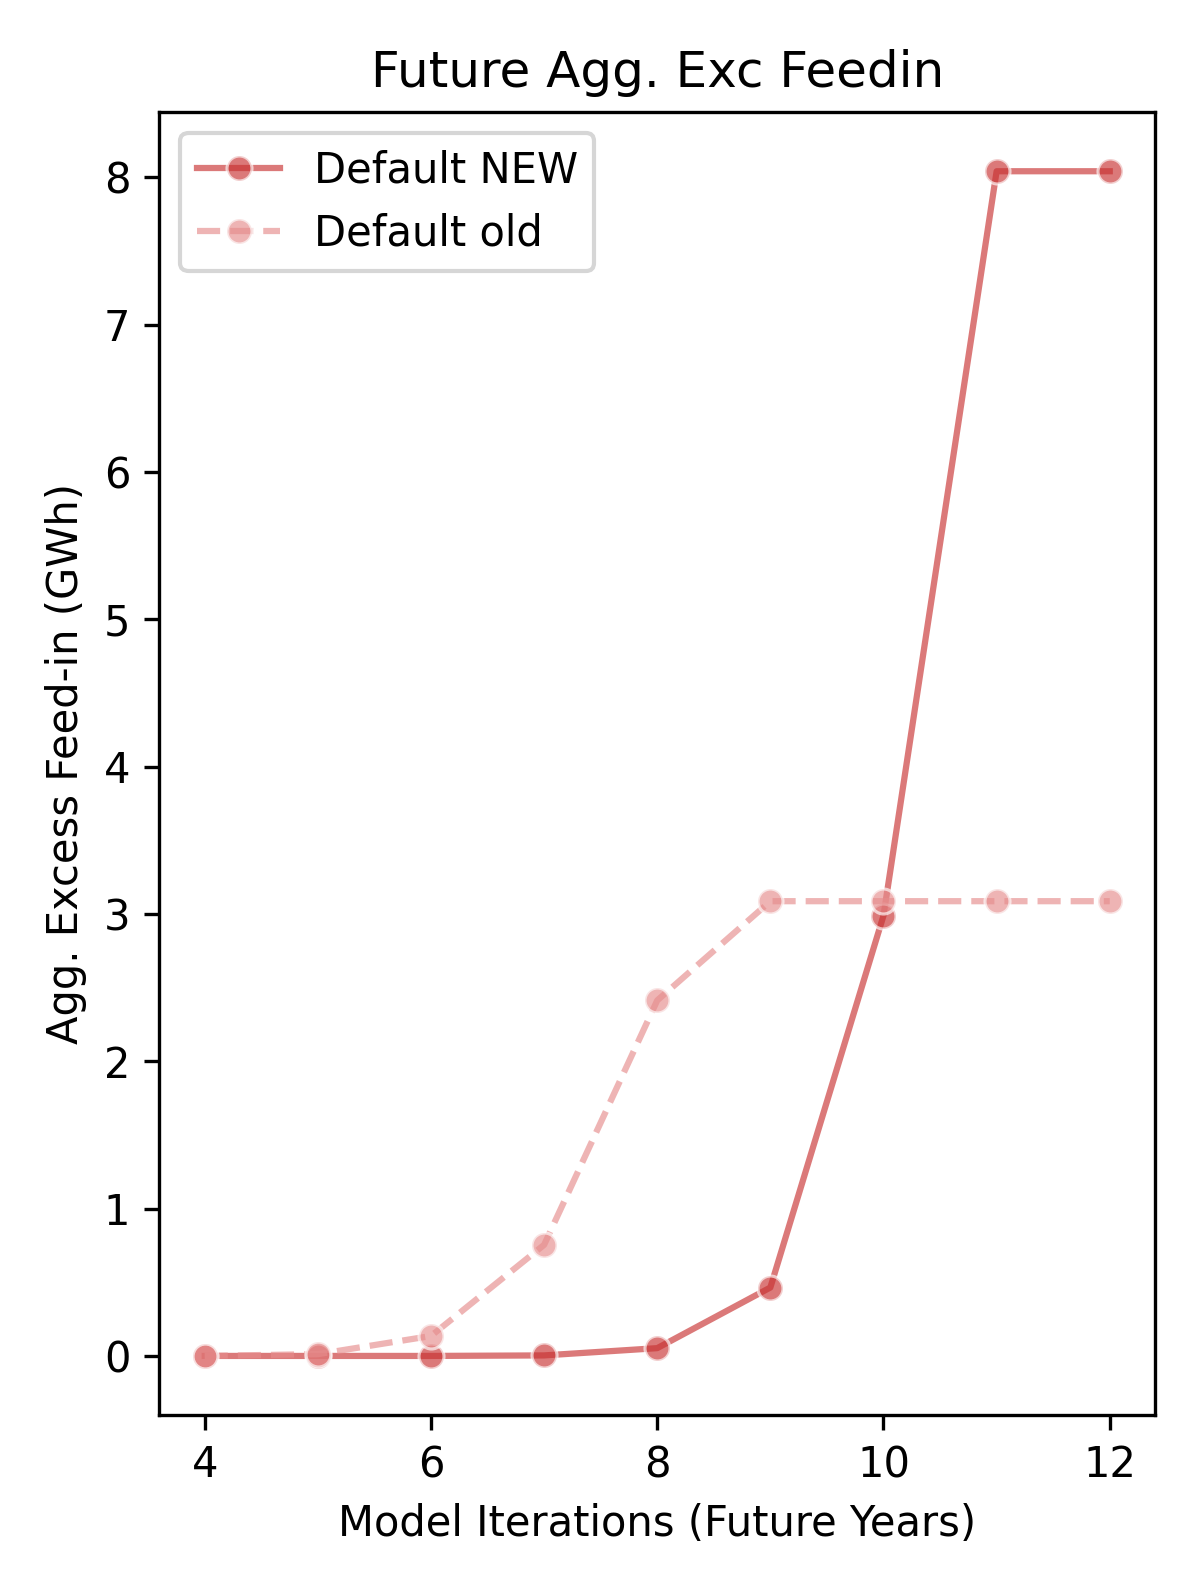
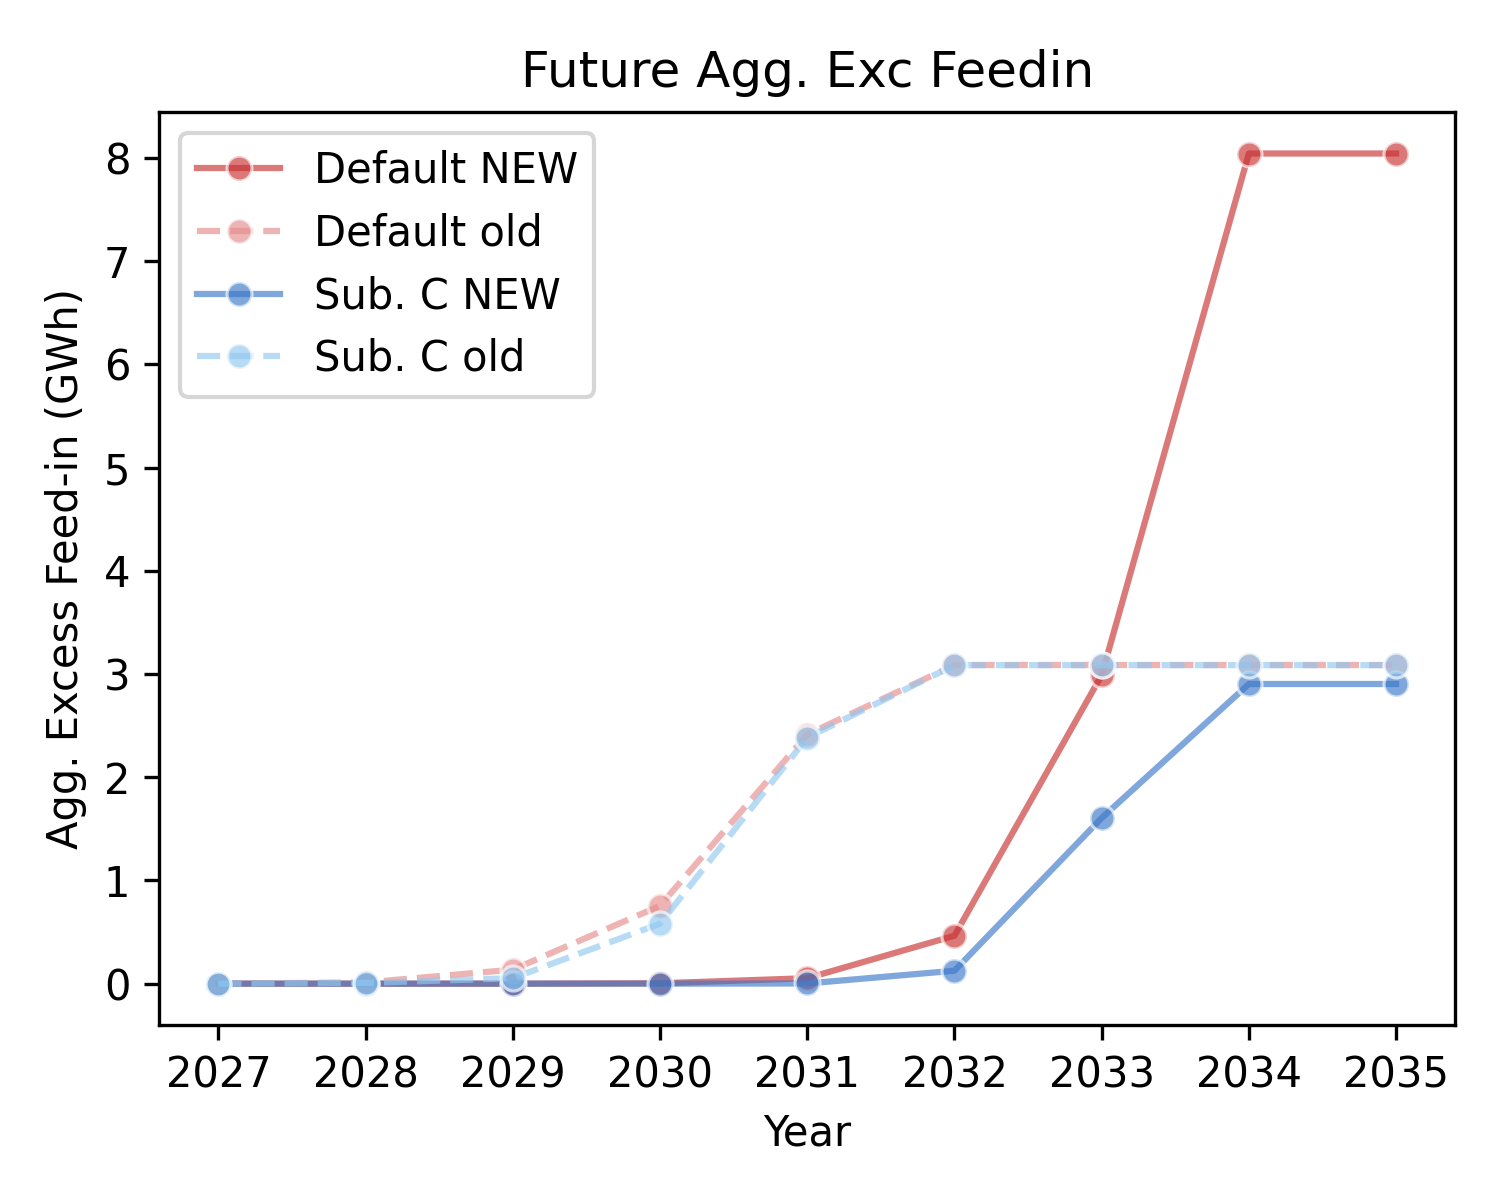
v1 dso update slide deck

diff --git a/paper_publication/Update_Primeo_June26/main.tex b/paper_publication/Update_Primeo_June26/main.tex
@@ -144,9 +144,9 @@
 % \title[Improved Residential PV Expansion]{Decisions at the Grid's Edge}
 \title{Update Primeo}
 \subtitle{Decisions at the Grid's Edge - An Improved Spatial PV Expansion in Swiss Residences}
-\author{Raul Hochuli}
-\institute{University of Basel, Faculty of Business and Economics}
-\date{June 2026}
+\author{Raul Hochuli (raul.hochuli@unibas.ch)}
+\institute{Universität Basel, Wirtschaftswissenschaftliche Fakultät}
+\date{Juni 2026}
 % \titlegraphic{\includegraphics[width=2.3cm]{UniBas_Logo.jpg}}
 
 
@@ -164,112 +164,175 @@
 \section{Adjustments to last Presentation}
 
 % -------------------------------------------------------
-\begin{frame}{Recap \& New Adjustments}
-\begin{itemize}
-    \item Expansion trajectory no longer solely based on EP2050+ but asymptotically approaches this
+\begin{frame}{Übersicht Anpassungen}
+\begin{enumerate}
+
+    \item \textbf{Unrealistische Ausbaukapazität}  \hyperlink{adjusted_res_capacity}{\beamergotobutton{ Angepasste Ausbaukazapität}}
     \begin{itemize}
-        \item \textit{done, still show plot}
+        \item Bisher: Zukünftiger PV Ausbaupfad gemäss Energieperspektive (EP) 2050+ als unrealistische Annahme. 
+        \item \textit{
+            Neu: Startwert basiert auf historischem Wert (2023), anschliessend asymptotische Annäherung an die Zielkapazität EP2050+ bis 2050. 
+            }
     \end{itemize}
-    
-    \item Post-Analyse: Batteriespeicher in den "schlimmsten" Kontenpunkten
+    %
+    \textbf{\item Batteriespeicher gegen Überproduktion} \hyperlink{worstnodesworstweek}{\beamergotobutton{ Überproduktion: Schlimmster Tag in den schlimmsten Trafos}}
     \begin{itemize}
+        \item Bisher: Batteriespeicher wird im Model nicht berücksichtigt (bestehend + zukünftig) aufgrund fehlender Datenquellen und strengen Annahmen zum Ladeverhalten. 
         \item \textit{
-        Erwartungsgemäss erfolgt der grösste Teil der Überproduktion (aufgrund von Trafokapazität nicht aufnehmbar) an einem Sommertag in Netzbereichen mit vielen Häuser. 
-        }
-        \item \textit{
-        Am Ende der Simulation, also bei maximaler Installationsrate, entfallen am "schlimmsten" Tag ca. 15-20 kWh pro Haus in den 5 meist betroffenen Knotenpunkten. Dies könnte mit herkömlichem Heimspeicher zu grossen Teilen aufgefangen werden, das Problem wäre aber ncht genügend die Entladung in den Abend / Morgenzeiten in diesen Tagen. 
-        }
+            % Neu: Vergleich von Überproduktion in den schlimmsten Kontenpunkten zu herkömlicher Speicherkapazität. 
+            Neu: Herkömmlicher Speicher könnte eine 24h Überproduktion evtl. auffangen, jedoch bis zum nächsten Tag nicht genügend entladen. 
+            }
+        % Post-Analyse: Batteriespeicher in den "schlimmsten" Kontenpunkten
+        % Erwartungsgemäss erfolgt der grösste Teil der Überproduktion (aufgrund von Trafokapazität nicht aufnehmbar) an einem Sommertag in Netzbereichen mit vielen Häuser. 
+        % }
+        % \item \textit{
+        % Am Ende der Simulation, also bei maximaler Installationsrate, entfallen am "schlimmsten" Tag ca. 15-20 kWh pro Haus in den 5 meist betroffenen Knotenpunkten. Dies könnte mit herkömlichem Heimspeicher zu grossen Teilen aufgefangen werden, das Problem wäre aber ncht genügend die Entladung in den Abend / Morgenzeiten in diesen Tagen. 
+        % }
     \end{itemize}
-    
-    \item Fehlerbehebung: Unprofitable Häuser (mit negativem NPV) erhielten trotzdem eine PV Installation, wenn auch ganz am Schluss der Simulation
+    %
+    \item \textbf{Effekte von Preisänderungen (Strompreis)} \hyperlink{npv_hists_elecpri}{\beamergotobutton{ Sensitivitätsanalyse: Halbierung / Verdoppelung Strompreis}}
     \begin{itemize}
+        \item Bisher: Strompreise und Einspeisetarife bleiben fix über die ganze Simulation. 
         \item \textit{
-        Neu: Nur Häuser mit positivem NPV entscheiden sich für eine Installation. Subentionen des Papers (ABC) haben jetzt Einfluss auf die Installationsreihenfolge \textbf{und} Installationsmenge (bspw. auch Status Quo vs. Abschaffung KEV). 
+        Zusätzliche Sensitivitätsanaylse: Erhöhung des Strompreiswas verschiebt die Nullgrenze des NPV-Histogramm, sodass in der Simulation mehr Installationen verbaut werden. Anlagen mit hohem Eigenverbrauchsanteil werden in der Reihenfolge weiter nach vorne geschoben. 
         }
-        \item \textit{
-        Sensitivitätsanaylse: Bspw. Senkung des Strompreises in der Zukunft würde  ändert die Mhätten
-        }
+    % : Nur profitable Installationen werden verbautUnprofitable Häuser (mit negativem NPV) erhielten trotzdem eine PV Installation, wenn auch ganz am Schluss der Simulation
+    %     \item \textit{
+    %     Neu: Nur Häuser mit positivem NPV entscheiden sich für eine Installation. Subentionen des Papers (ABC) haben jetzt Einfluss auf die Installationsreihenfolge \textbf{und} Installationsmenge (bspw. auch Status Quo vs. Abschaffung KEV). 
+    %     }
+    %     \item \textit{
+    %     Sensitivitätsanaylse: Bspw. Senkung des Strompreises in der Zukunft würde  ändert die Mhätten
+    %     }
     \end{itemize}
-\end{itemize}
+\end{enumerate}
 \end{frame}
 
 %%%%%%%%%%%%%%%%%%%%%%%%%%%%%%%%%%%%%%%%%%%%%%%
 \section{Results}
 
+% % -------------------------------------------------------
+% \begin{frame}{Adjusted Future Installation Capacity}
+% \begin{minipage}{0.48\textwidth}
+%   \centering\includegraphics[width=\textwidth]{figures/line_PVproduction_instCap1.png}
+% \end{minipage}\hfill
+% \begin{minipage}{0.48\textwidth}
+%   \centering\includegraphics[width=\textwidth]{figures/line_PVproduction_excfeedin1.png}
+% \end{minipage}
+% \end{frame}
+
+
+
 % -------------------------------------------------------
-\begin{frame}{Adjusted Future Installation Capacity}
-\begin{minipage}{0.48\textwidth}
-  \centering\includegraphics[width=\textwidth]{figures/line_PVproduction_bauABC_excfeedin.png}
+\begin{frame}[t]{Angepasste Ausbaukazapität}
+\hypertarget{adjusted_res_capacity}{}   
+
+\begin{minipage}{0.322\textwidth}
+  \centering\includegraphics[width=\textwidth]{figures/line_PVproduction_instCap2.png}
 \end{minipage}\hfill
-\begin{minipage}{0.48\textwidth}
-  \centering\includegraphics[width=\textwidth]{figures/line_PVproduction_bauABC_feedin.png}
+\begin{minipage}{0.322\textwidth}
+  \centering\includegraphics[width=\textwidth]{figures/line_PVproduction_excfeedin2.png}
+\end{minipage}\hfill
+\begin{minipage}{0.322\textwidth}
+  \centering\includegraphics[width=\textwidth]{figures/line_PVproduction_takenfeedin2.png}
 \end{minipage}
+
+% \vspace{0.2cm}
+{\footnotesize
+Linke Grafik zeigt den angepassten, zukünftigen Ausbaupfad (neu mit Startwert auf der historisch verbauten Kapazität in 2023). Netzbedingte Überproduktion tritt erst 2031 auf statt zuvor 2029 (Subsidy C noch später).
+% verzögern sich  Durch tieferen Verlauf kann auch länger im Simulationssample zugebaut werden. Dadurch verzögern sich die Kontenkapaz
+}
 \end{frame}
 
 
-
 % -------------------------------------------------------
-\begin{frame}{PV-Induced Excess Feed-in}
-\begin{minipage}{0.322\textwidth}
-  \centering\includegraphics[width=\textwidth]{SSES_StGallen/figures/gridnode_feedin_threshold_HOY.png}
-\end{minipage}\hfill
-\begin{minipage}{0.322\textwidth}
-  \centering\includegraphics[width=\textwidth]{SSES_StGallen/figures/line_PVproduction_bau_excfeedin.png}
-\end{minipage}\hfill
-\begin{minipage}{0.322\textwidth}
-  \centering\includegraphics[width=\textwidth]{SSES_StGallen/figures/line_PVproduction_bau_feedin.png}
-\end{minipage}
-\end{frame}
-
-% -------------------------------------------------------
-\begin{frame}{Grid Optimal Expansion}
-\begin{minipage}{0.48\textwidth}
-  \centering\includegraphics[width=\textwidth]{SSES_StGallen/figures/line_PVproduction_gridoptim_excfeedin.png}
-\end{minipage}\hfill
-\begin{minipage}{0.48\textwidth}
-  \centering\includegraphics[width=\textwidth]{SSES_StGallen/figures/line_PVproduction_gridoptim_feedin.png}
-\end{minipage}
-\end{frame}
-
-
-% -------------------------------------------------------
-\begin{frame}{Worst Week in Worst Node}
-\begin{minipage}{0.48\textwidth}
+\begin{frame}[t]{Überproduktion: Schlimmster Tag in den schlimmsten Trafos}
+\hypertarget{worstnodesworstweek}{}  
   \centering
-  \vspace{0.3cm}
-  {\small
-  \begin{tabular}{ll}
+  {\footnotesize
+  \begin{tabular}{l|rrrrr}
     \toprule
-    \textbf{Parameter} & \textbf{Value} \\
+    \textbf{Parameter}
+      &  \textcolor[RGB]{200,50,50}{\textbf{751}}
+      & \textbf{524}
+      & \textbf{754}
+      & \textbf{10}
+      & \textbf{734} \\
     \midrule
-    % Worst node                       & 751 \\
-    n Houses                         & 379 \\
-    Peak week start                  & 2025-07-12 \\
-    Peak week end                    & 2025-07-13 \\
-    Total excess feed-in             & 5'970.7 kWh \\
-    Avg.\ excess feed-in p.\ house   & 15.8 kWh \\
-    Tesla Powerwall (\cite{tesla2026})  & 13.5 kWh\\
-    Tesla Powerwall (\cite{tesla2026})  & 13.5 kWh\\
-    Avg.\ demand p.\ house           & kWh\\
+    Peak day
+      & \textcolor{black}{17.07.}
+      & 17.07.
+      & 17.04.
+      & 17.07.
+      & 17.07. \\
+    Total excess feed-in (kWh)
+      & \textcolor{black}{6'259.6}
+      & 5'424.9
+      & 4'215.7
+      & 3'751.2
+      & 3'192.6 \\
+    n h ouses
+      & \textcolor{black}{379}
+      & 243
+      & 283
+      & 197
+      & 167 \\
+    Avg.\ excess feed-in p.\ house (kWh)
+      & \textcolor[RGB]{200,50,50}{16.5}
+      & 22.3
+      & 14.9
+      & 19.0
+      & 19.1 \\
+    Avg.\ remaining netdemand p.\ house (kWh)
+      & \textcolor[RGB]{200,50,50}{2.1}
+      & 3.2
+      & 6.2
+      & 4.1
+      & 2.2 \\
+    \midrule
+    Tesla Powerwall (kWh, \cite{tesla2026})  & \textcolor{black}{13.5} & & & &\\
     \bottomrule
   \end{tabular}
   }
-\end{minipage}\hfill
-\begin{minipage}{0.48\textwidth}
-  \centering\includegraphics[width=\textwidth]{paper_publication/SSES_StGallen/worstnode_worstweek_pegid_pvalloc_LRG3_max.png}
-\end{minipage}
+  \vspace{0.412cm}
+
+  \begin{columns}[T]
+    \begin{column}{0.48\textwidth}
+      \centering
+        \includegraphics[width=\textwidth]{figures/hist_avgloss_pEGID_pvalloc_LRG3_max.png}
+    \end{column}
+    \begin{column}{0.48\textwidth}
+      \centering
+        \includegraphics[width=\textwidth]{figures/worstnode_worstweek_pegid_pvalloc_LRG3_max.png}
+    \end{column}
+  \end{columns}
+  
+% \vspace{0.1cm}
+{\footnotesize
+% Linke Grafik zeigt den angepassten Ausbaupfad für die zukünftigen Jahre (neu mit Startwert auf der historisch verbauten Kapazität in 2023). Erste netzbedingte Überproduktion (Excess Feedin) tritt somit erst ca. 2031 statt zuvor 2029. 
+% verzögern sich  Durch tieferen Verlauf kann auch länger im Simulationssample zugebaut werden. Dadurch verzögern sich die Kontenkapaz
+}
 \end{frame}
+
 
 % -------------------------------------------------------
-\begin{frame}{DSO Interventions}
-\begin{minipage}{0.48\textwidth}
-  \centering\includegraphics[width=\textwidth]{paper_publication/SSES_StGallen/line_PVproduction_DSOreact_excfeedin.png}
-\end{minipage}\hfill
-\begin{minipage}{0.48\textwidth}
-  \centering\includegraphics[width=\textwidth]{paper_publication/SSES_StGallen/line_PVproduction_DSOreact_feedin.png}
-\end{minipage}
-\end{frame}
+\begin{frame}[t]{Sensitivitätsanalyse: Halbierung / Verdoppelung Strompreis}
+\hypertarget{npv_hists_elecpri}{}
 
+\begin{minipage}{0.322\textwidth}
+  \centering\includegraphics[width=\textwidth]{figures/NPVhist_LRG3_max_31Rp.png}
+\end{minipage}\hfill
+\begin{minipage}{0.322\textwidth}
+  \centering\includegraphics[width=\textwidth]{figures/NPVhist_LRG3_max_15Rp.png}
+\end{minipage}\hfill
+\begin{minipage}{0.322\textwidth}
+  \centering\includegraphics[width=\textwidth]{figures/NPVhist_LRG3_max_60Rp.png}
+\end{minipage}
+
+\vspace{0.1cm}
+{\footnotesize
+Grafiken zeigen Histogramm der NPVs aller zukünftigen Installationen bei Strompreis von 31.9,  15 und 60 Rp/kWh. Verschobenen Masse betrifft haupts. Anlagen mit hohem Eingenverbrauch welche (netzdienlicher) zuerst installiert werden. 
+}
+\end{frame}
 
 
 
